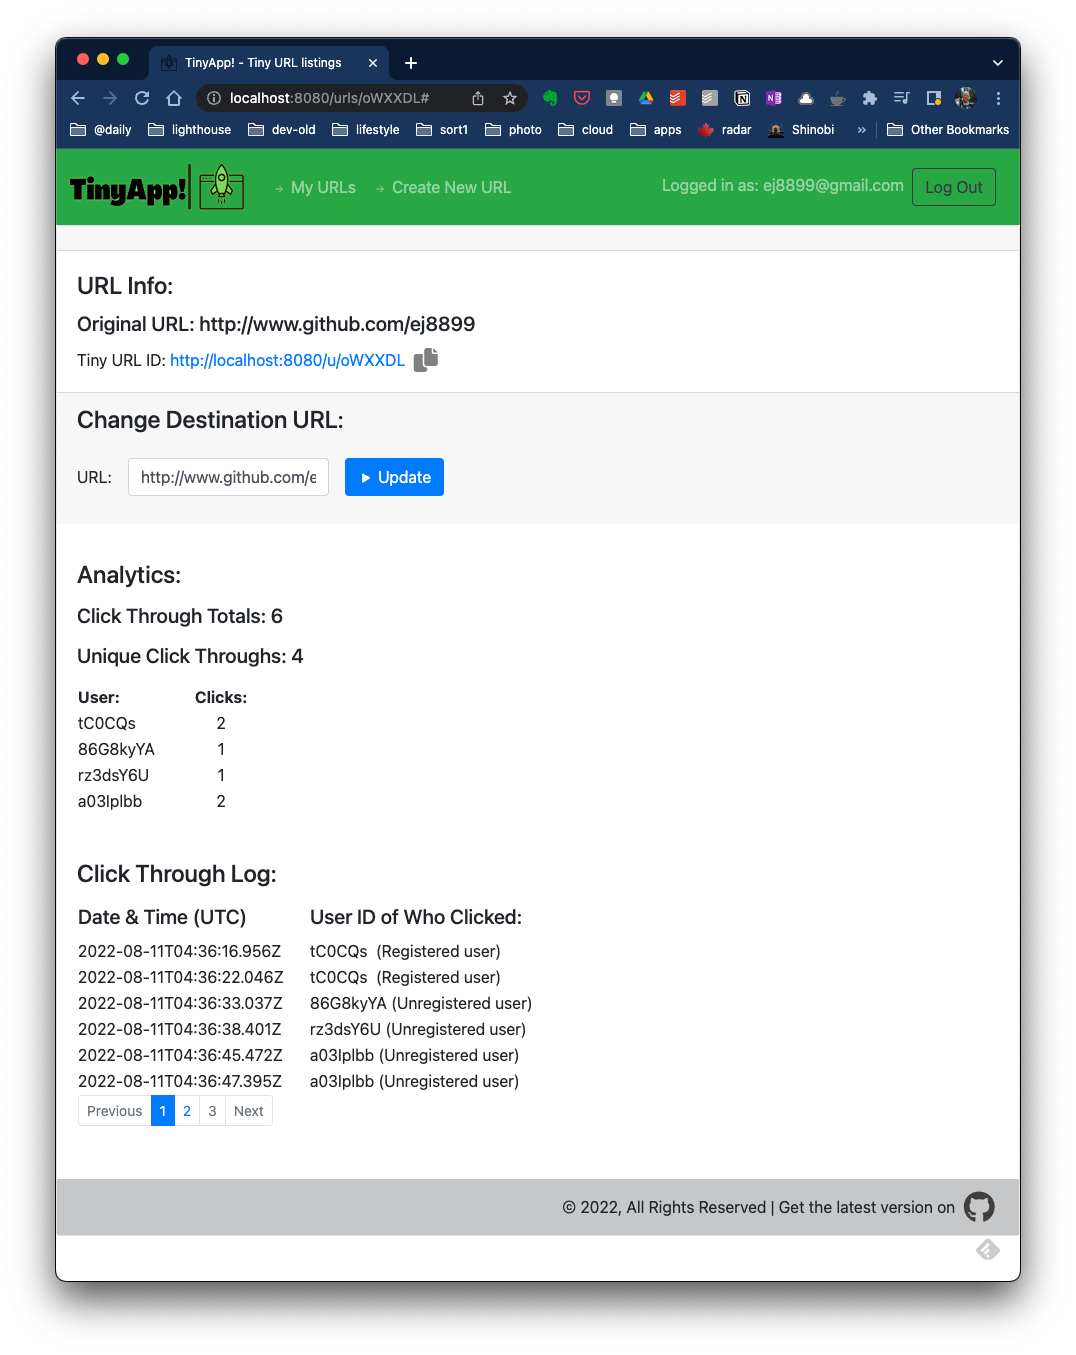
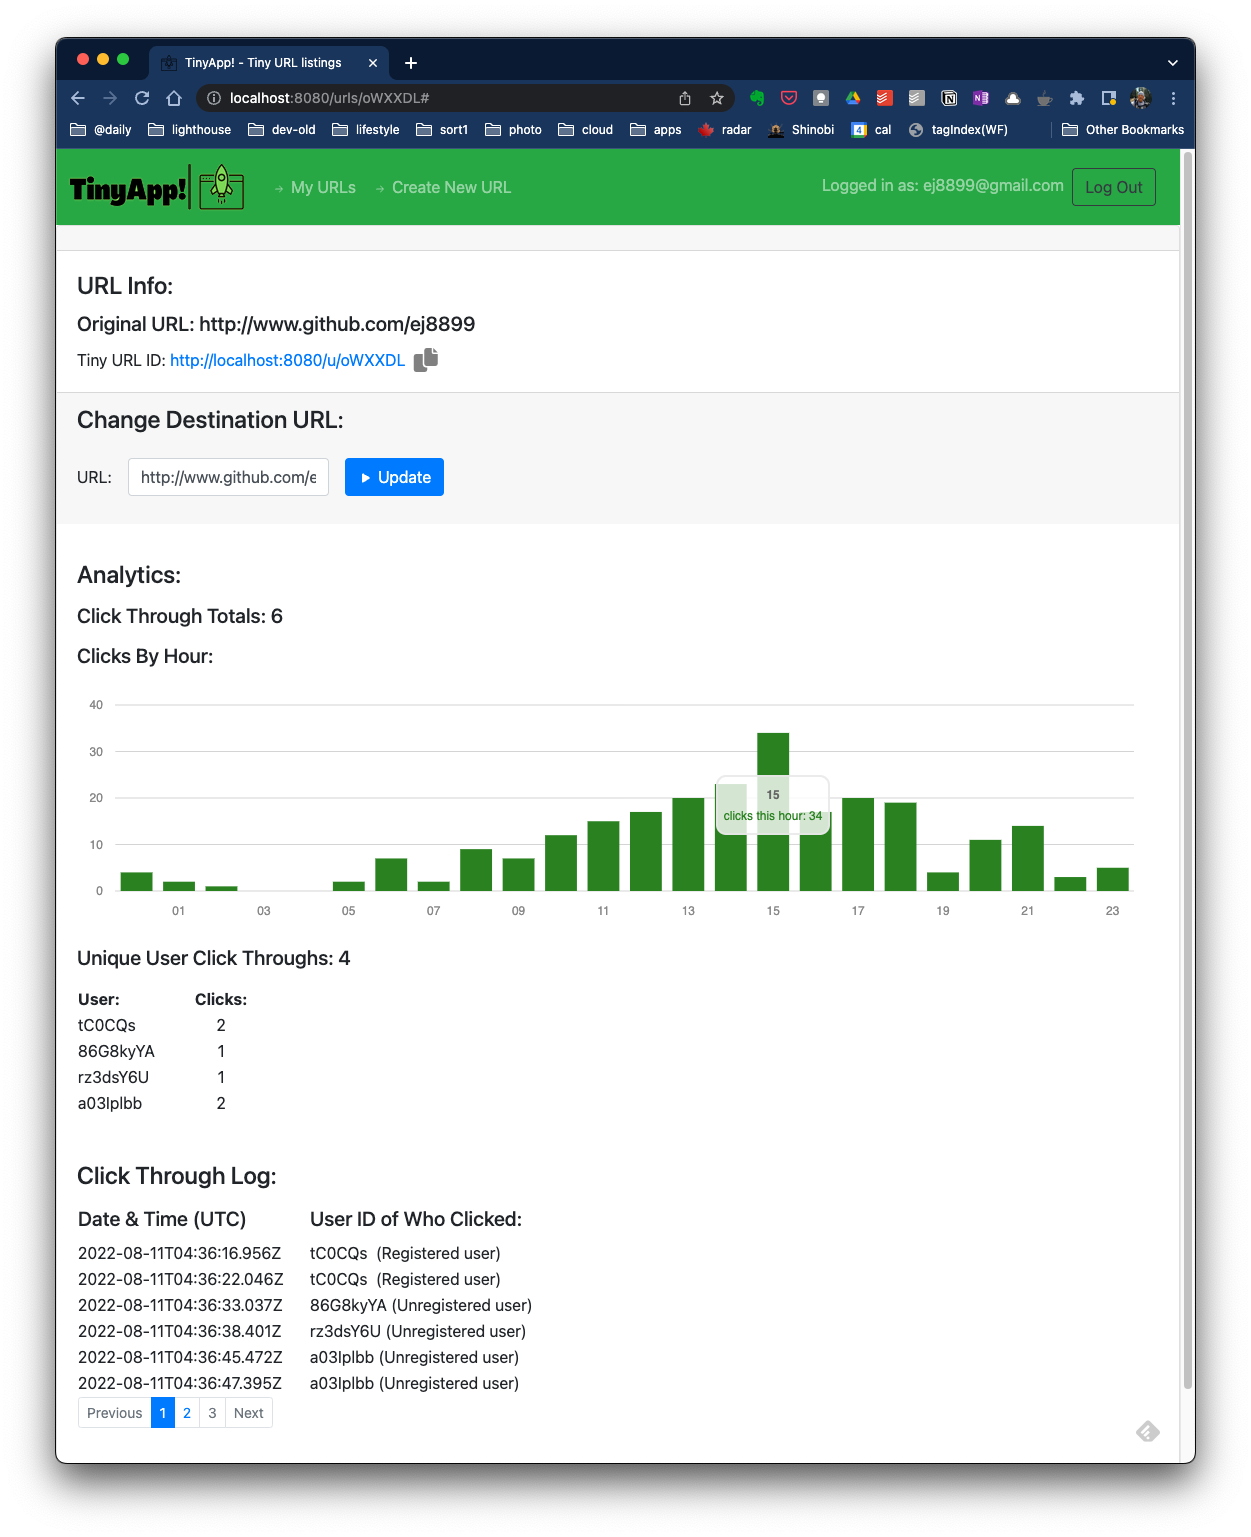
complete analytics - hour graph

Changed region(s): [[0.0307, 0.0, 0.9814, 0.9919]]

diff --git a/express_server.js b/express_server.js
@@ -93,6 +93,8 @@ const conColorCyan = "\x1b[36m", conColorRed = '\x1b[31m', conColorGreen = '\x1b
 const conColorBright = "\x1b[1m", conColorDim = "\x1b[2m", conColorReverse = "\x1b[7m";
 
 
+
+
 //
 // SETUP ADDITIONAL HELPER FUNCTIONS:
 //  also see helpers.js for more
@@ -274,7 +276,6 @@ const countUIDS = function(inputObject) {
 
 
 
-
 /***
  *     _______  _______  _______  ______    _______
  *    |       ||       ||   _   ||    _ |  |       |
@@ -384,7 +385,7 @@ app.get("/urls/:id", (req, res) => {
   // need to parse our clickDatabase and rebuild for this tinyURL id ONLY
   let tempClicksDatabase = {};
   let templateClicks = {};
-  let theusertype;
+  let theusertype = '', graphArray = [], graphDataItem = {}, graphStats = {};
 
   for (let item in clickDatabase) {                       // loop thru click database
     if (clickDatabase[item].lid === req.params.id) {      // filter matching tiny url items
@@ -399,12 +400,38 @@ app.get("/urls/:id", (req, res) => {
         userType: theusertype,
       };
       tempClicksDatabase[makeID(8)] = templateClicks;
+
+      // ASSEMBLE GRAPH DATA:
+      let clickDate = new Date(clickDatabase[item].dateStamp);
+      let theHour = clickDate.getHours();
+      let thehourString = (`0${theHour}`).slice(-2);
+      if (!graphStats[thehourString]) {
+        graphStats[thehourString] = 1;
+      } else {
+        graphStats[thehourString] += 1;
+      }
+      //console.log("FULLDATE:",clickDatabase[])
+      //console.log("HOUR INT:",theHour);
+      //console.log("HOUR STRING:", thehourString);
+      console.log("GRAPH STATS: ",graphStats);
     }
   }
   let moreStats = countUIDS(tempClicksDatabase);
   let clickUniques = Object.keys(moreStats).length;
 
-  const templateVars = { id: req.params.id, longURL: urlDatabase[req.params.id], user: uidData, totalCount, logs:tempClicksDatabase, uniques:clickUniques, moreStats:moreStats};
+  // CONVERT GRAPH DATA:
+  let newgraphObj = {};
+  for (let item in graphStats) {
+    console.log("GRAPHSTATS.item",graphStats[item]); // thisis the count
+    console.log("ITEM:",item)
+    newgraphObj[item] = graphStats[item];
+
+    graphArray.push(newgraphObj);
+  }
+  
+  console.log("GRAPH ARRAY:",graphArray);
+
+  const templateVars = { id: req.params.id, longURL: urlDatabase[req.params.id], user: uidData, totalCount, logs:tempClicksDatabase, uniques:clickUniques, moreStats:moreStats, graphStats:graphStats};
   res.render("urls_show.ejs", templateVars);
 });
 
